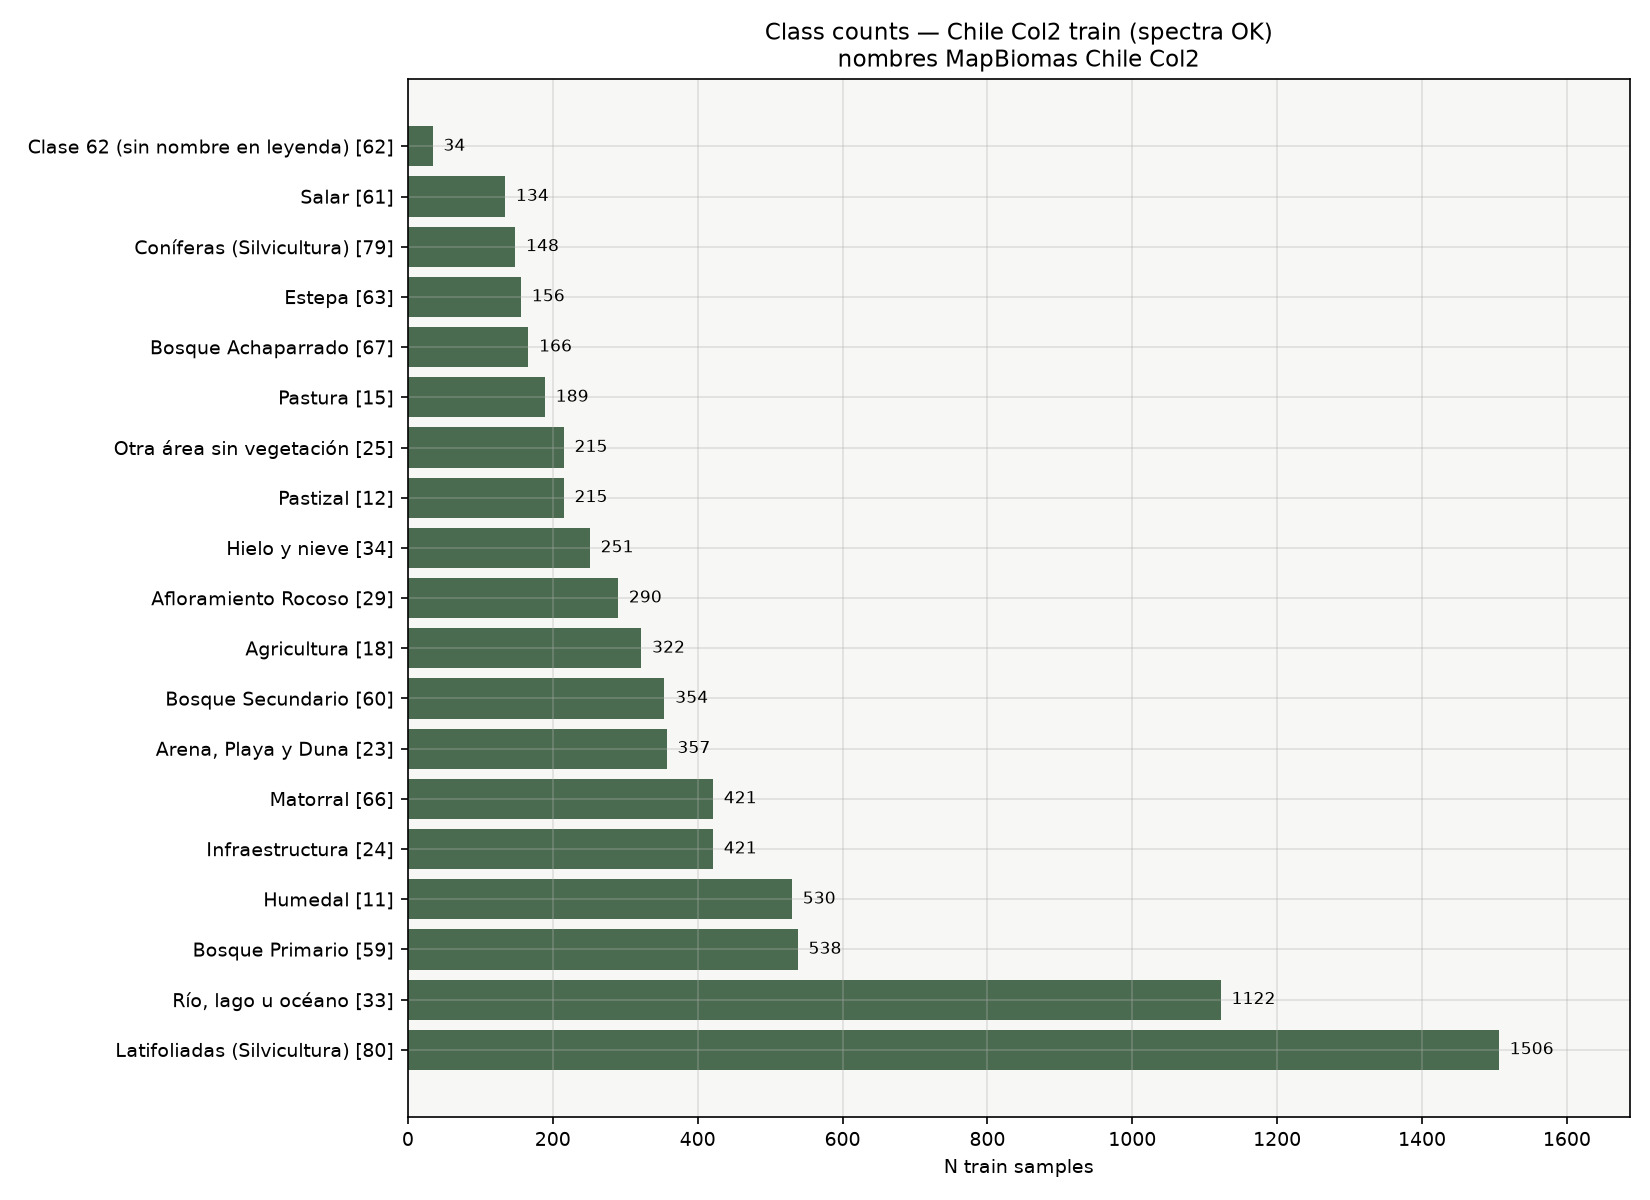
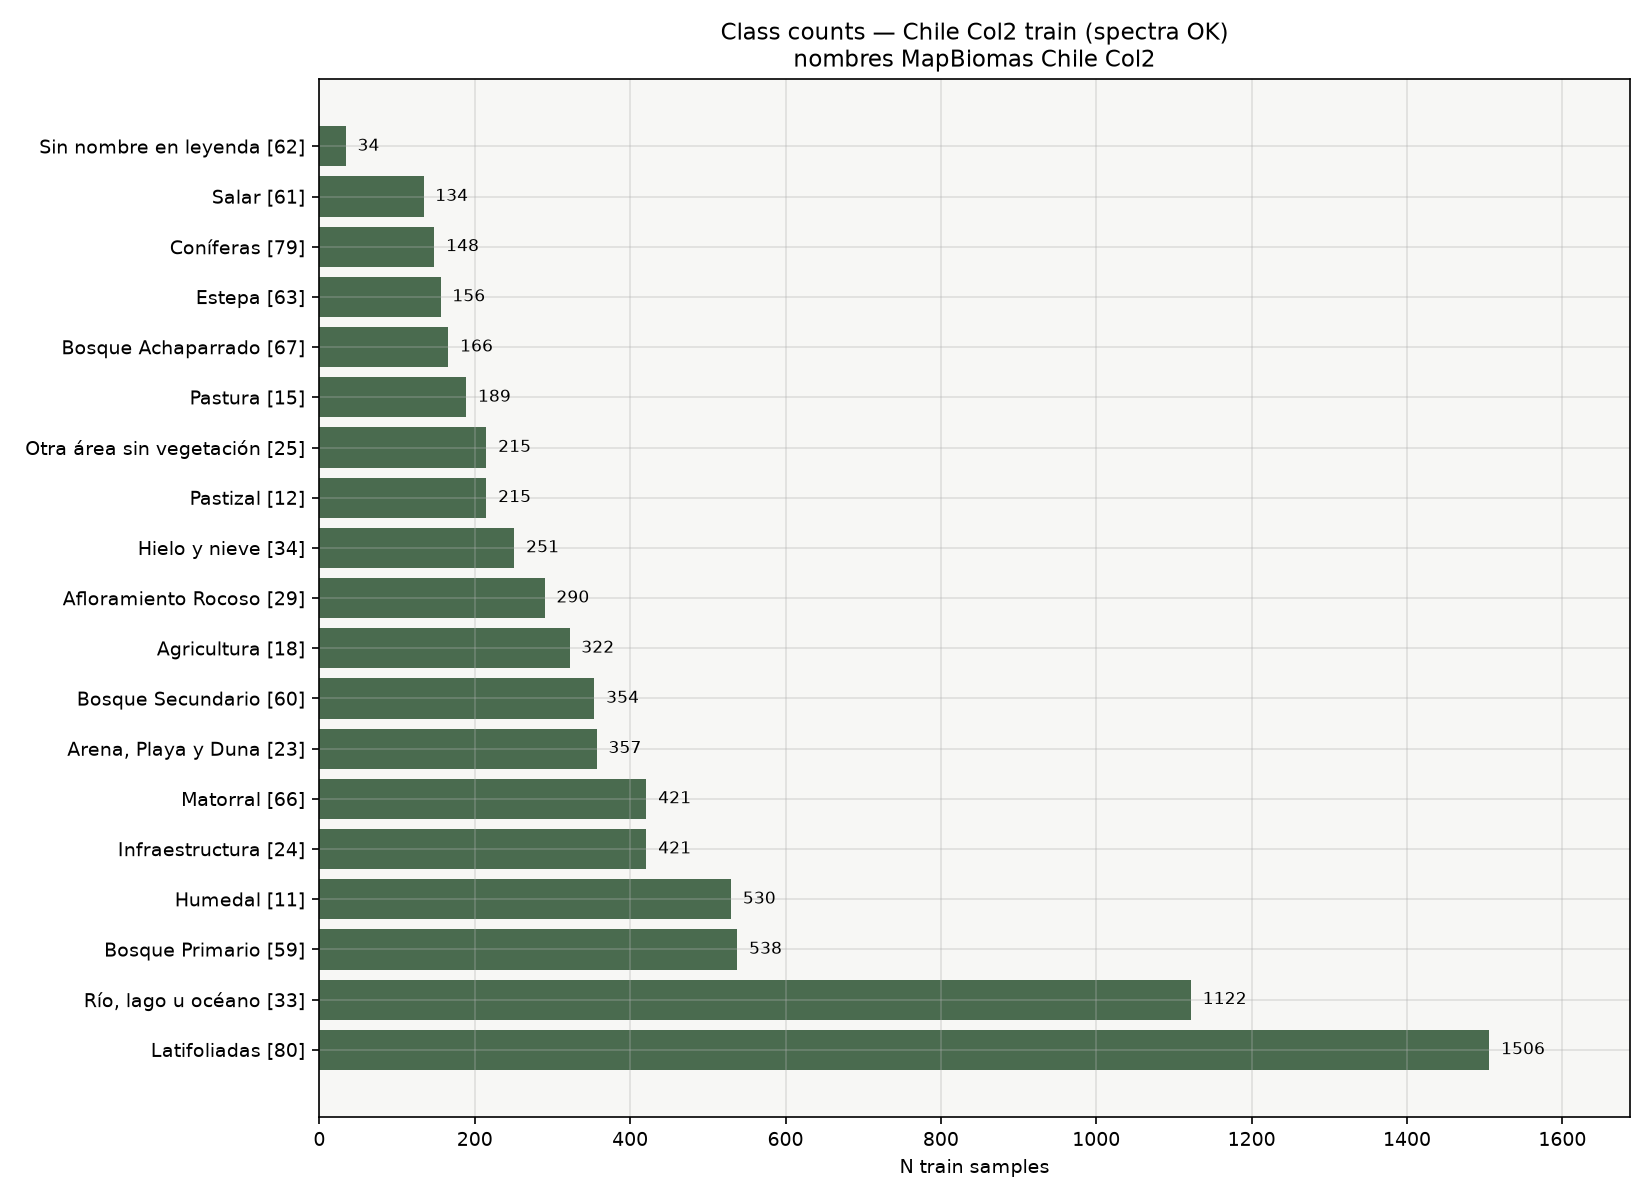
Clarify Col2 class names for Coniferas, Latifoliadas, and unknown 62.
Align the JM class chart with legend ids 79/80 and flag class 62 as unlabeled.

diff --git a/bands_reduction/docs/JM_184_bands_REPORT/README.md b/bands_reduction/docs/JM_184_bands_REPORT/README.md
@@ -62,8 +62,8 @@ JM does **not** train a classifier. The name `train` only means the sample split
 ![Class counts](figures/class_counts_chile_train.png)
 
 Nombres según leyenda MapBiomas Chile Col2 (con id entre corchetes).  
-Clases **79/80** (Coníferas / Latifoliadas) no venían en la leyenda pegada; se tomaron de la taxonomía Col2 del repo.  
-Clase **62** aparece en las muestras pero sin nombre en la leyenda enviada.
+**79** = Coníferas · **80** = Latifoliadas.  
+**62** no está en la leyenda Col2 enviada (34 muestras, solo ecorregión E2 Desierto de Atacama); se etiqueta como *Sin nombre en leyenda*.
 
 See [`data/class_counts.csv`](data/class_counts.csv).
 
